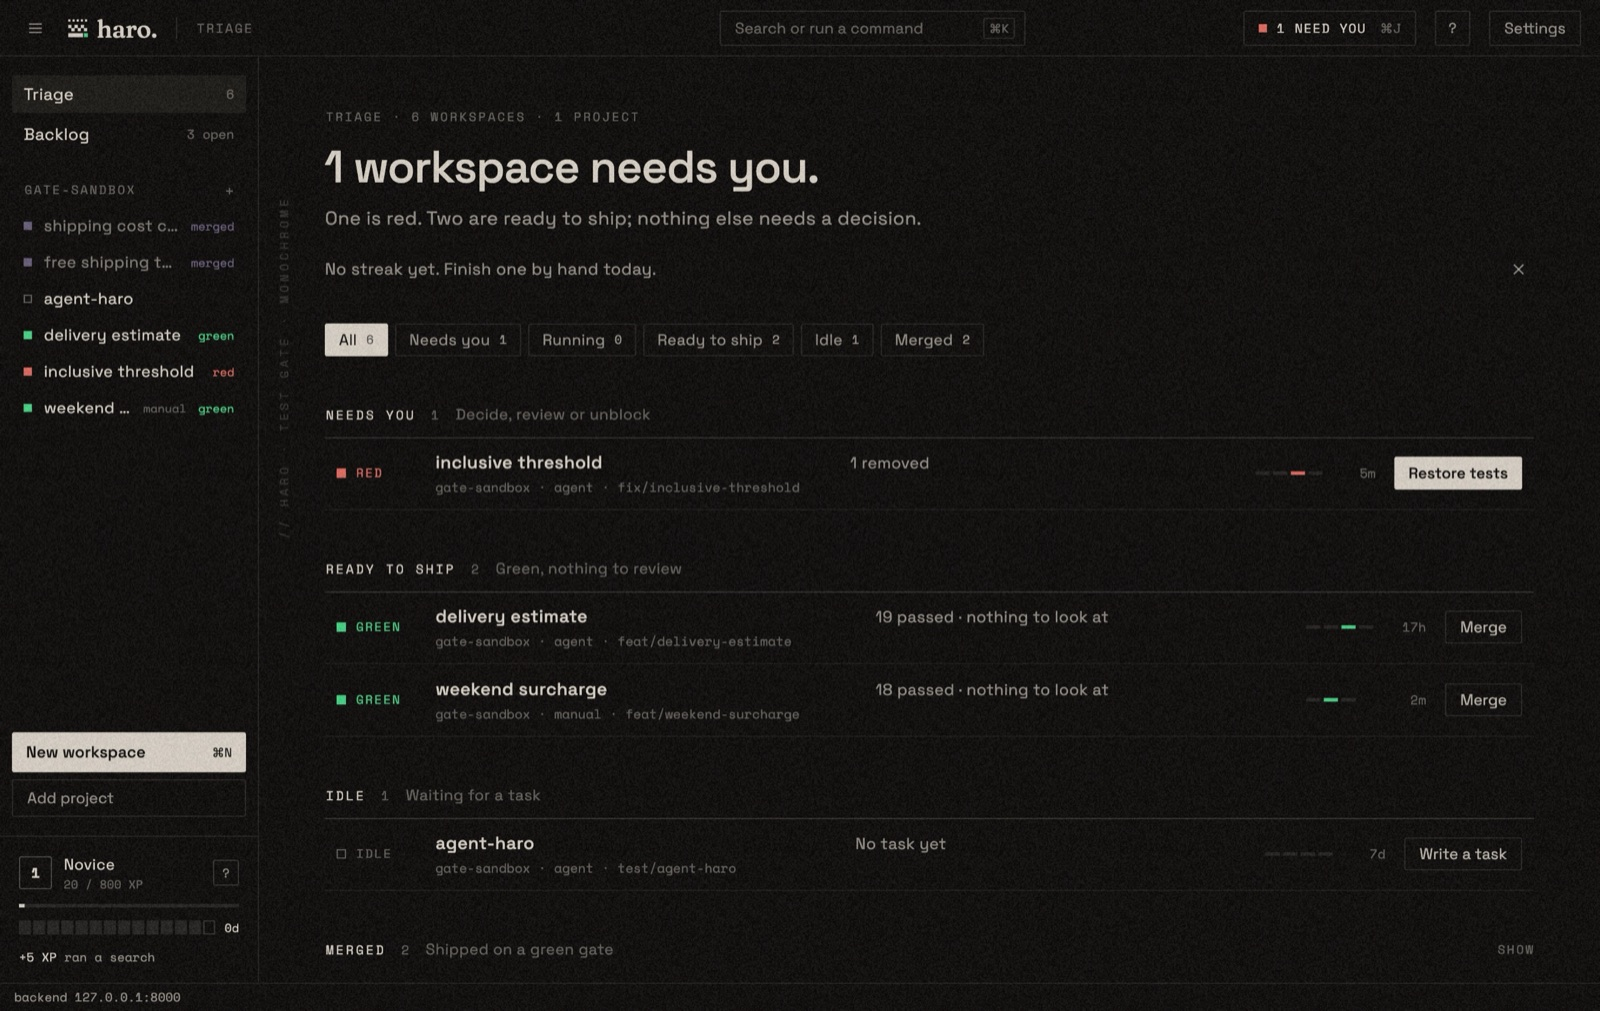
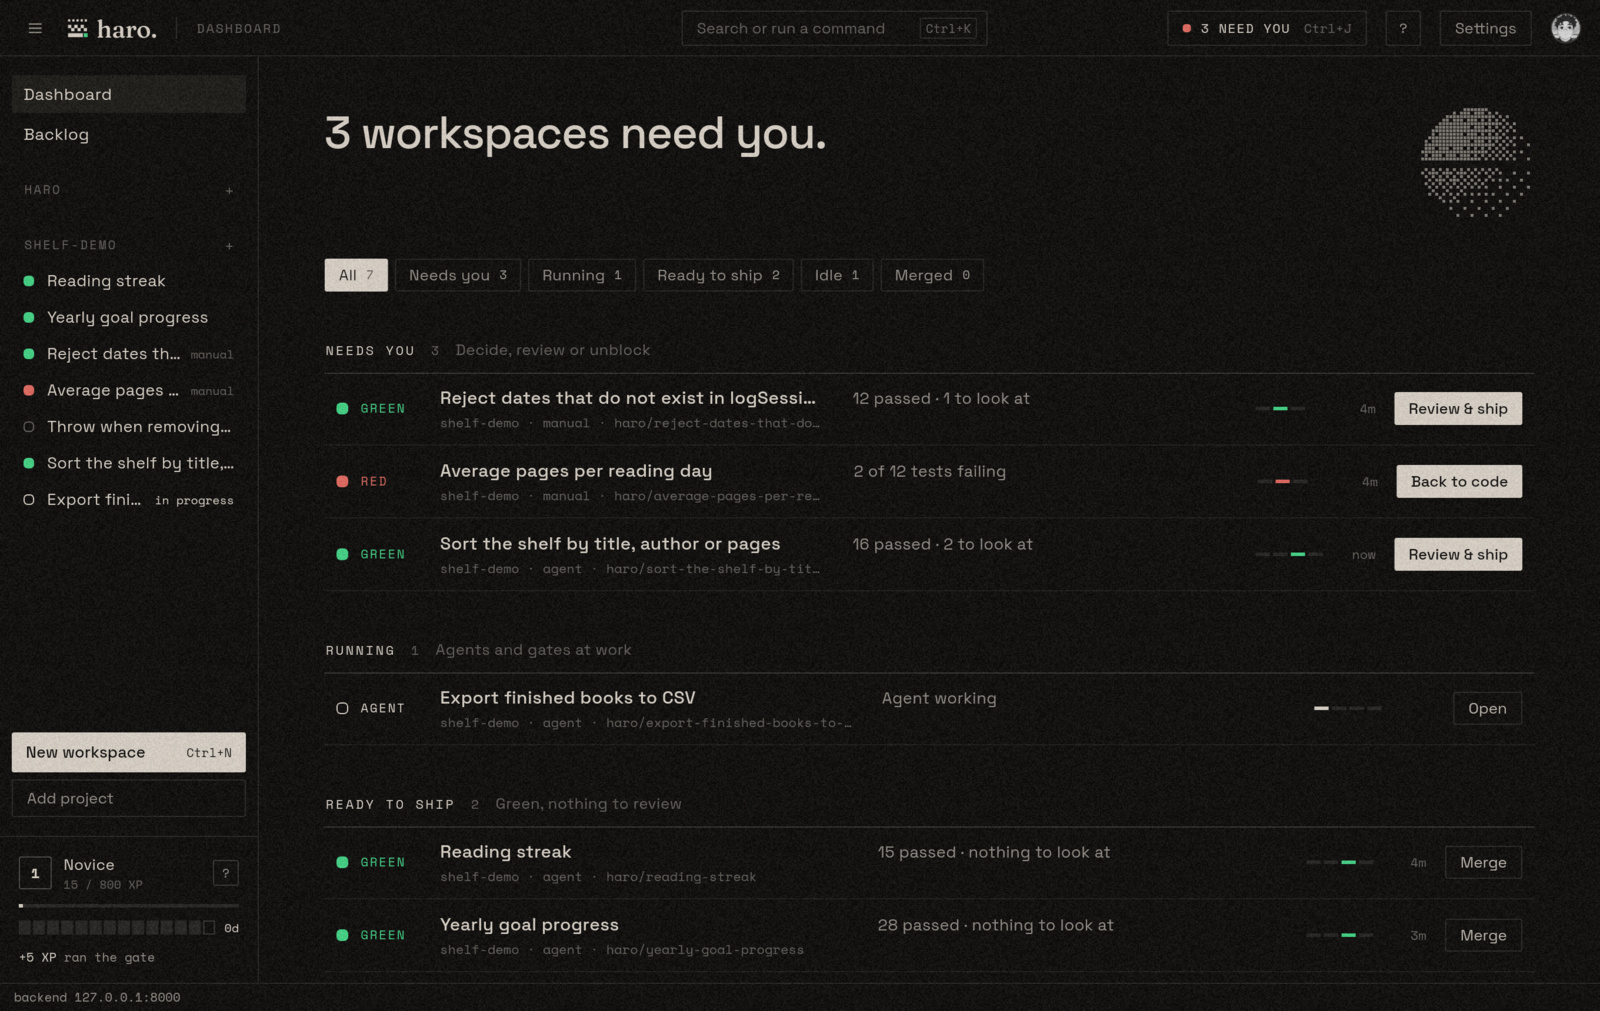
shots: the dashboard replaces triage (real shelf-demo workspaces); copy follows

diff --git a/index.html b/index.html
@@ -178,7 +178,7 @@
       </div>
       <div class="pair">
         <figure class="fig plain" data-reveal="0"><div class="fl">[ STATUS ] HOW XP WORKS</div><a href="shots/shot-xp.jpg"><img class="shot" src="shots/shot-xp.jpg" alt="The How XP works popover above the sidebar footer."></a></figure>
-        <figure class="fig plain" data-reveal="1"><div class="fl">[ STATUS ] +10 XP</div><a href="shots/shot-xp-triage.jpg"><img class="shot" src="shots/shot-xp-triage.jpg" alt="The triage screen with the XP sidebar footer and a +10 XP toast."></a></figure>
+        <figure class="fig plain" data-reveal="1"><div class="fl">[ STATUS ] XP, RANK, STREAK</div><a href="shots/shot-xp-triage.jpg"><img class="shot" src="shots/shot-xp-triage.jpg" alt="The dashboard with the XP footer in the sidebar: level, rank, streak and the latest award."></a></figure>
       </div>
     </section>
 
@@ -196,17 +196,17 @@
       </figure>
     </section>
 
-    <section data-quest="Triage" class="sec s140">
+    <section data-quest="Dashboard" class="sec s140">
       <div class="shead" data-reveal="0">
         <div>
-          <div class="eyebrow">08 // Triage</div>
+          <div class="eyebrow">08 // Dashboard</div>
           <h2 class="h-sec">See what needs you, at a glance.</h2>
         </div>
         <p class="body mw560 mt34">All your workspaces in one list, sorted by what they need: your attention, still running, ready to ship, or done. Each one shows you the next step.</p>
       </div>
       <figure class="fig wide top" data-reveal="1">
-        <div class="fh"><span>[ SYSTEM · 08 ]</span><span>TRIAGE</span></div>
-        <a href="shots/shot-triage.jpg"><img class="shot" src="shots/shot-triage.jpg" alt="The triage screen: workspaces grouped by what they need, each with one action."></a>
+        <div class="fh"><span>[ SYSTEM · 08 ]</span><span>DASHBOARD</span></div>
+        <a href="shots/shot-triage.jpg"><img class="shot" src="shots/shot-triage.jpg" alt="The dashboard: workspaces grouped by what they need (needs you, running, ready to ship, idle), each with one action."></a>
       </figure>
     </section>
 
